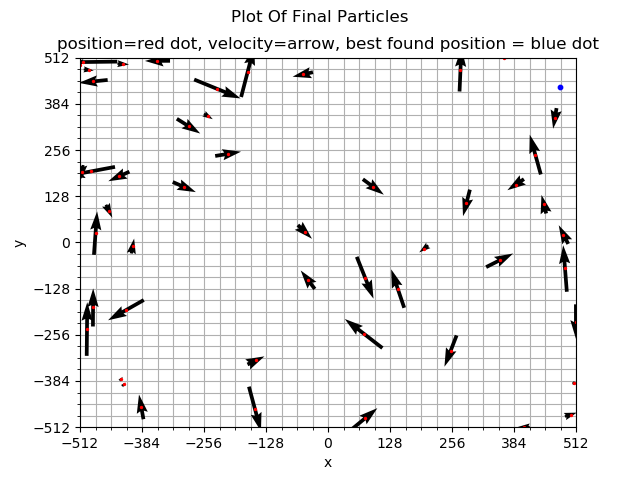
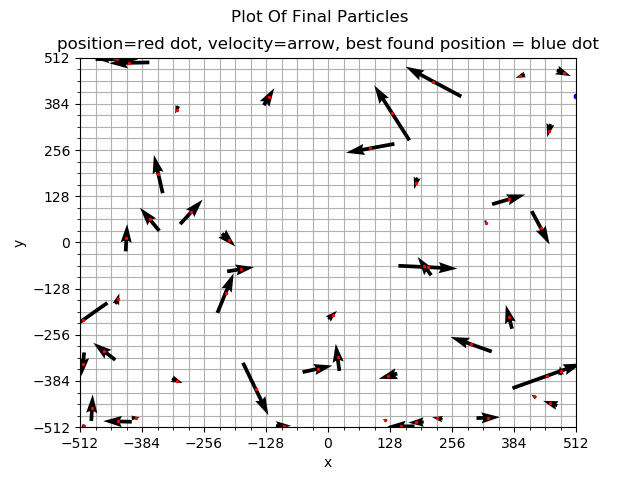
update to use different results

diff --git a/src/main/graph.py b/src/main/graph.py
@@ -2,8 +2,8 @@ import pandas as pd
 import matplotlib.pyplot as plt
 import matplotlib.ticker as plticker
 
-df = pd.read_csv('output/swarm_20201012-212645.csv', sep=', ', engine='python')
-df_best = pd.read_csv('output/best_20201012-212645.csv', sep=', ', engine='python', header=None)
+df = pd.read_csv('output/swarm_20201012-221839.csv', sep=', ', engine='python')
+df_best = pd.read_csv('output/best_20201012-221839.csv', sep=', ', engine='python', header=None)
 
 px = df['p0']
 py = df['p1']
